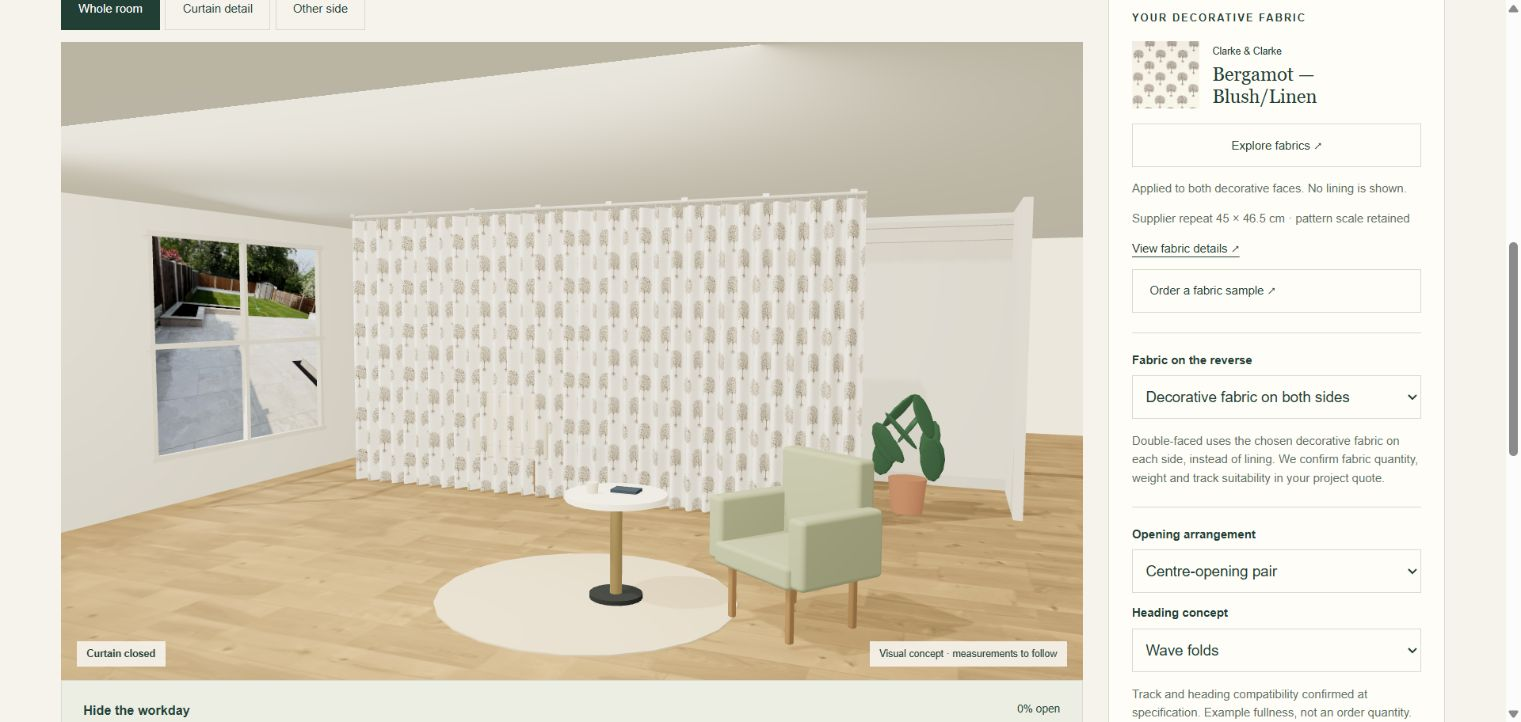
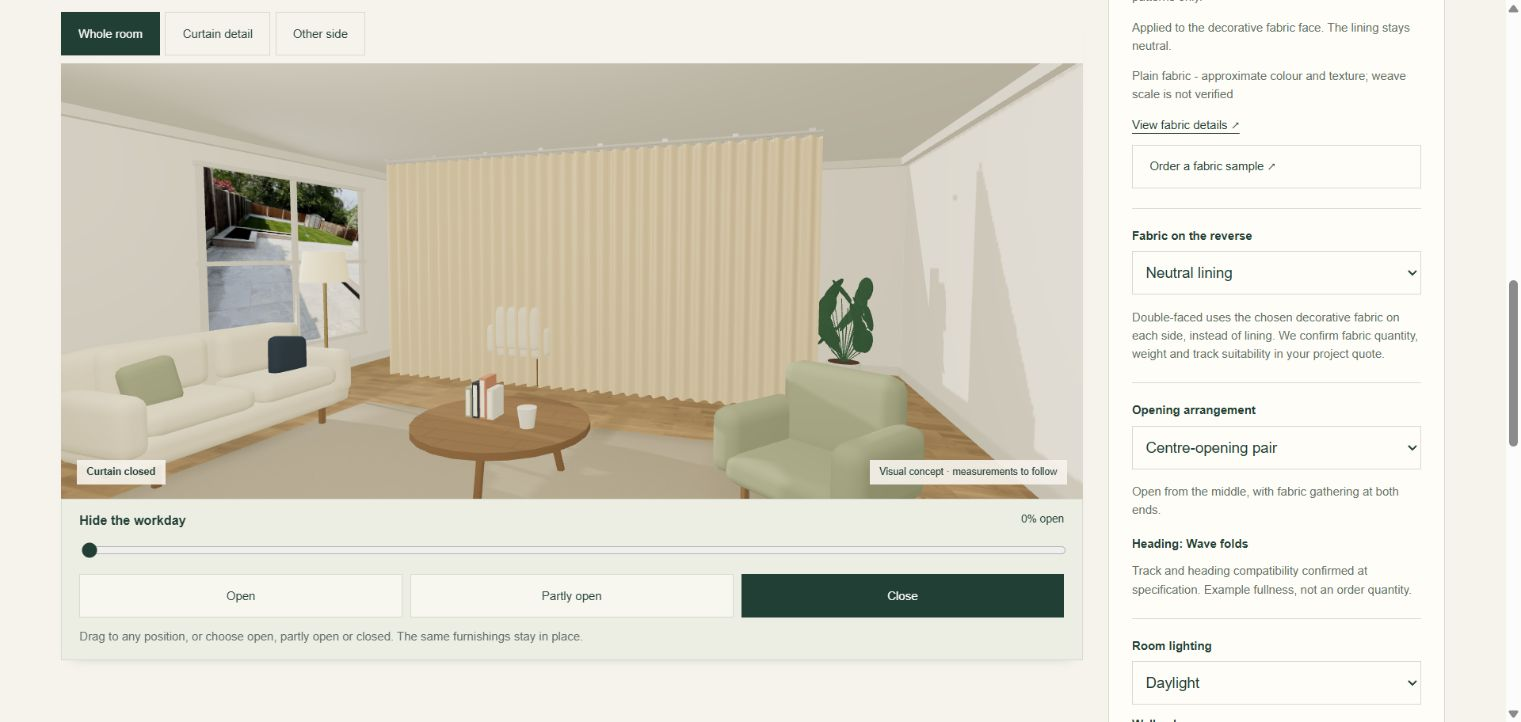
Enclose Beyond Windows interiors and improve natural room composition

diff --git a/docs/curtains-beyond-windows.md b/docs/curtains-beyond-windows.md
@@ -78,3 +78,11 @@ These are illustrative installation details, not a supplier fixing or structural
 - Project email drafts go to **enquiries@curtainsuk.com**. Nothing is sent automatically.
 
 Validation: 15 Beyond Windows tests, 8 immutable asset guard tests, 4 iframe/recovery tests and 3 error-category tests passed. TypeScript passed; six released packs (3,653 files) passed byte verification. Live relay checks returned one approved Bergamot colourway, no Mellora, and paginated Amalfi plains. Browser QA checked approved-plain selection, page 2/Previous, restricted direct links retaining curved layout and 37% opening, old pencil links, quote address, layout examples, material buttons, mobile sticky view, keyboard range movement, refresh and image Retry. Search responses observed around 1.1-1.6 seconds for these named searches, not a catalogue-wide performance guarantee. Physical mobile-device testing remains a production review dependency.
+
+## Enclosed interior revision
+
+The scene shell now has four continuous walls, a floor and ceiling with matching bounds, skirting and cornice around the perimeter, and one framed window opening. All whole-room, detail and reverse cameras stay inside that shell; walls are no longer swapped for a cutaway. The detached office backdrop was removed, and the reverse view includes an entrance and wall art.
+
+The home-office scene has a furnished seating foreground with a sofa, cushions, coffee table, woven rug and floor lamp. Upholstered shapes use corrected rounded geometry; shelving has open cavities rather than solid blocks. Existing immutable oak, weave, plaster, rug and contact-shadow assets are reused. Daylight comes from the window direction, with less ambient fill and contact shading. These are interactive 3D interiors, not photographic renders or changes to the fabric calibration.
+
+Track routes, installation height, panel gathering, approved fabric policy, reverse construction, sticky controls and quote destinations are retained. The overhead furniture plan was updated to match the revised seating. The camera containment regression covers all three scenes and views at four viewport aspect ratios; the Beyond Windows suite now contains 16 passing tests. Updated open/closed screenshots show the enclosed rooms.
